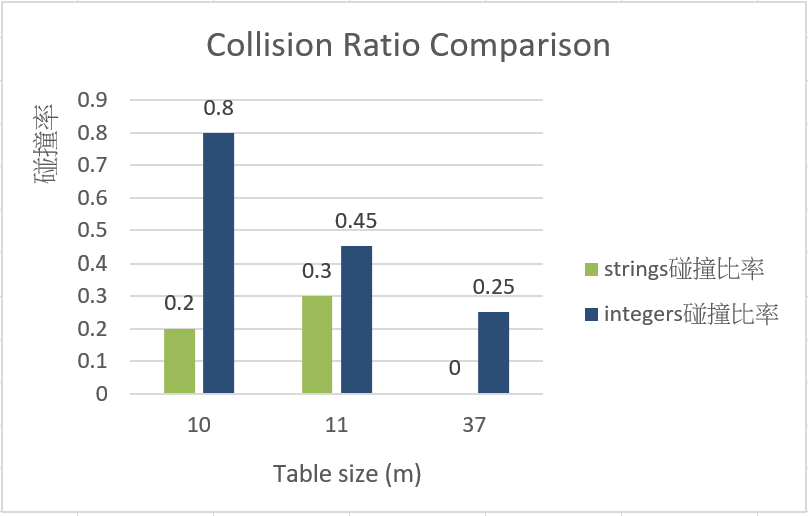
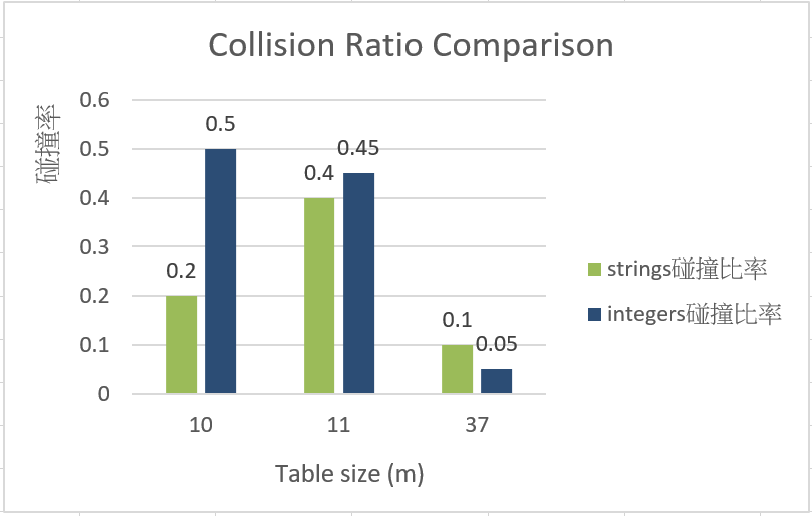
Update README analysis and fix image

diff --git a/Assignment/AssignmentIV/README.md b/Assignment/AssignmentIV/README.md
@@ -40,18 +40,18 @@ Email: s1133322@mail.yzu.edu.tw
 
 ## Results
 - For integers:
-  | Table Size (m) | Index Sequence                                                           | Observation                            |
-    |----------------|--------------------------------------------------------------------------|----------------------------------------|
-    | 10             | 2, 2, 2, 2, 2, 2, 2, 2, 2, 3, 5, 5, 5, 5, 5, 5, 5, 5, 5, 6               | Index changes很少，高度重複            |
-    | 11             | 1, 0, 10, 9, 8, 7, 6, 5, 4, 3, 4, 3, 2, 1, 0, 10, 9, 8, 7, 6             | 呈現完整循環遞減序列：10->9->8-> … ->0 |
-    | 37             | 12, 22, 32, 5, 15, 25, 35, 8, 18, 3, 15, 25, 35, 8, 18, 28, 1, 11, 21, 6 | Near-uniform、Index 無明顯規律         |
+  | Table Size (m) | Index Sequence                                                              | Observation                       |
+    |----------------|---------------------------------------------------------------------------|-----------------------------------|
+    | 10             | 3, 4, 5, 6, 7, 8, 9, 0, 1, 3, 6, 7, 8, 9, 0, 1, 2, 3, 4, 6                | Index 呈現循環、重複明顯          |
+    | 11             | 8, 0, 3, 6, 9, 1, 4, 7, 10, 2, 10, 2, 5, 8, 0, 3, 6, 9, 1, 4              | 部分 Index 重複                   |
+    | 37             | 23, 1, 16, 31, 9, 24, 2, 17, 32, 12, 35, 13, 28, 6, 21, 36, 14, 29, 7, 24 | Near-uniform、Index 無明顯規律    |
 
 - For strings:
-  | Table Size (m) | Index Sequence                         | Observation                       |
-  |----------------|----------------------------------------|-----------------------------------|
-  | 10             | 9, 1, 8, 6, 0, 5, 7, 2, 7, 0           | 偶有跳動、沒有周期性              |
-  | 11             | 0, 2, 10, 6, 0, 4, 10, 3, 8, 10        | 偶有跳動、但整體重複性還是高      |
-  | 37             | 25, 27, 24, 5, 36, 14, 13, 28, 33, 9   | Near-uniform、跳動大、完全沒重複  |
+  | Table Size (m) | Index Sequence                         | Observation                    |
+  |----------------|----------------------------------------|--------------------------------|
+  | 10             | 9, 1, 8, 6, 0, 5, 7, 2, 7, 0           | 無週期性、部分 Index 重複      |
+  | 11             | 6, 2, 2, 3, 5, 2, 1, 1, 7, 5           | 無週期性、部分 Index 重複      |
+  | 37             | 9, 22, 10, 2, 7, 5, 8, 11, 9, 0        | Near-uniform、數值跳動幅度大   |
 
 ## Compilation, Build, Execution, and Output
 
@@ -97,84 +97,84 @@ Email: s1133322@mail.yzu.edu.tw
 ### Result Snapshot
 - Example output for integers:
   ```
-  === Hash Function Observation (C++ Version) ===
+	=== Hash Function Observation (C++ Version) ===
 
 	=== Table Size m = 10 ===
 	Key     Index
 	-----------------
-	21      2
-	22      2
-	23      2
-	24      2
-	25      2
-	26      2
-	27      2
-	28      2
-	29      2
+	21      3
+	22      4
+	23      5
+	24      6
+	25      7
+	26      8
+	27      9
+	28      0
+	29      1
 	30      3
-	51      5
-	52      5
-	53      5
-	54      5
-	55      5
-	56      5
-	57      5
-	58      5
-	59      5
+	51      6
+	52      7
+	53      8
+	54      9
+	55      0
+	56      1
+	57      2
+	58      3
+	59      4
 	60      6
 
 	=== Table Size m = 11 ===
 	Key     Index
 	-----------------
-	21      1
+	21      8
 	22      0
-	23      10
-	24      9
-	25      8
-	26      7
-	27      6
-	28      5
-	29      4
-	30      3
-	51      4
-	52      3
-	53      2
-	54      1
+	23      3
+	24      6
+	25      9
+	26      1
+	27      4
+	28      7
+	29      10
+	30      2
+	51      10
+	52      2
+	53      5
+	54      8
 	55      0
-	56      10
-	57      9
-	58      8
-	59      7
-	60      6
+	56      3
+	57      6
+	58      9
+	59      1
+	60      4
 
 	=== Table Size m = 37 ===
 	Key     Index
 	-----------------
-	21      12
-	22      22
-	23      32
-	24      5
-	25      15
-	26      25
-	27      35
-	28      8
-	29      18
-	30      3
-	51      15
-	52      25
-	53      35
-	54      8
-	55      18
-	56      28
-	57      1
-	58      11
-	59      21
-	60      6	
+	21      23
+	22      1
+	23      16
+	24      31
+	25      9
+	26      24
+	27      2
+	28      17
+	29      32
+	30      12
+	51      35
+	52      13
+	53      28
+	54      6
+	55      21
+	56      36
+	57      14
+	58      29
+	59      7
+	60      24
   ```
 
 - Example output for strings:
   ```
-  === String Hash (m = 10) ===
+	=== String Hash (m = 10) ===
 	Key     Index
 	-----------------
 	cat     9
@@ -191,44 +191,45 @@ Email: s1133322@mail.yzu.edu.tw
 	=== String Hash (m = 11) ===
 	Key     Index
 	-----------------
-	cat     0
+	cat     6
 	dog     2
-	bat     10
-	cow     6
-	ant     0
-	owl     4
-	bee     10
-	hen     3
-	pig     8
-	fox     10
+	bat     2
+	cow     3
+	ant     5
+	owl     2
+	bee     1
+	hen     1
+	pig     7
+	fox     5
 
 	=== String Hash (m = 37) ===
 	Key     Index
 	-----------------
-	cat     25
-	dog     27
-	bat     24
-	cow     5
-	ant     36
-	owl     14
-	bee     13
-	hen     28
-	pig     33
-	fox     9
+	cat     9
+	dog     22
+	bat     10
+	cow     2
+	ant     7
+	owl     5
+	bee     8
+	hen     11
+	pig     9
+	fox     0
+
   ```
 
 - Observations: Outputs align with the analysis, showing better distribution with prime table sizes.
 - Example output for integers:
   ```
-  Hash table (m=10): [2, 2, 2, 2, 2, 2, 2, 2, 2, 3, 5, 5, 5, 5, 5, 5, 5, 5, 5, 6]
-  Hash table (m=11): [1, 0, 10, 9, 8, 7, 6, 5, 4, 3, 4, 3, 2, 1, 0, 10, 9, 8, 7, 6]
-  Hash table (m=37): [12, 22, 32, 5, 15, 25, 35, 8, 18, 3, 15, 25, 35, 8, 18, 28, 1, 11, 21, 6]
+  Hash table (m=10): [3, 4, 5, 6, 7, 8, 9, 0, 1, 3, 6, 7, 8, 9, 0, 1, 2, 3, 4, 6]
+  Hash table (m=11): [8, 0, 3, 6, 9, 1, 4, 7, 10, 2, 10, 2, 5, 8, 0, 3, 6, 9, 1, 4]
+  Hash table (m=37): [23, 1, 16, 31, 9, 24, 2, 17, 32, 12, 35, 13, 28, 6, 21, 36, 14, 29, 7, 24]
   ```
 - Example output for strings:
   ```
   Hash table (m=10): [9, 1, 8, 6, 0, 5, 7, 2, 7, 0]
-  Hash table (m=11): [0, 2, 10, 6, 0, 4, 10, 3, 8, 10]
-  Hash table (m=37): [25, 27, 24, 5, 36, 14, 13, 28, 33, 9]
+  Hash table (m=11): [6, 2, 2, 3, 5, 2, 1, 1, 7, 5]
+  Hash table (m=37): [9, 22, 10, 2, 7, 5, 8, 11, 9, 0]
   ```
 - Observations: Outputs align with the analysis, showing better distribution with prime table sizes.
 
@@ -238,15 +239,15 @@ Email: s1133322@mail.yzu.edu.tw
   ![Collision Ratio Comparison](../images/collisionRatio.png)
 
   ##### 1. 以質數(prime)作為 table size 時，碰撞率顯著較低
-  > 圖中顯示，質數 m=11、m=37 的碰撞率都比非質數 m=10 更低，尤其是 m=37 (strings=0, integers=0.25) 明顯分佈最均勻、碰撞最少。
+  > 圖中顯示，質數 m=11、m=37 的碰撞率都比非質數 m=10 更低，尤其是 m=37 (strings=0.1, integers=0.05) 明顯分佈最均勻、碰撞最少。
 
   ##### 2. 非質數(non-prime)有明顯的 clustering 與高碰撞率
-  > 圖中顯示非質數m=10時，strings 碰撞率=0.2; integers 碰撞率=0.8(極高)，容易大量集中到同一區，導致高碰撞率。
+  > 圖中顯示非質數m=10時，strings 碰撞率=0.2; integers 碰撞率達一半，容易大量集中到同一區，造成高碰撞率。
 
   ##### 因此，符合雜湊理論：使用質數作為 table size 能減少 clustering，使分佈更均勻(碰撞少)。
 
 - Patterns or collisions: Non-prime table sizes tend to produce repetitive patterns, leading to more collisions.
-  > 觀察 integers 測試結果，非質數 m=10 呈現明顯 pattern，執行結果產生大量重複 index 被對映到 2 和 5，形成 clustering，造成 0.8 的高碰撞率。相較之下，質數 m=11 p及 m=37 則分佈較均勻。
+  > 觀察 integers 測試結果，非質數 m=10 呈現明顯 pattern，執行結果產生重複 index 循環(6->7->8->9->0)，造成 index 聚集在少數區域，形成 clustering，造成高碰撞率。相較之下，質數 m=37 則分佈較均勻。
 
 - Improvements: Use a prime table size and a well-designed hash function to enhance distribution.
   >1.使用質數(prime) 作為雜湊表大小，可避免產生週期性重複，分佈更均勻。<br>
